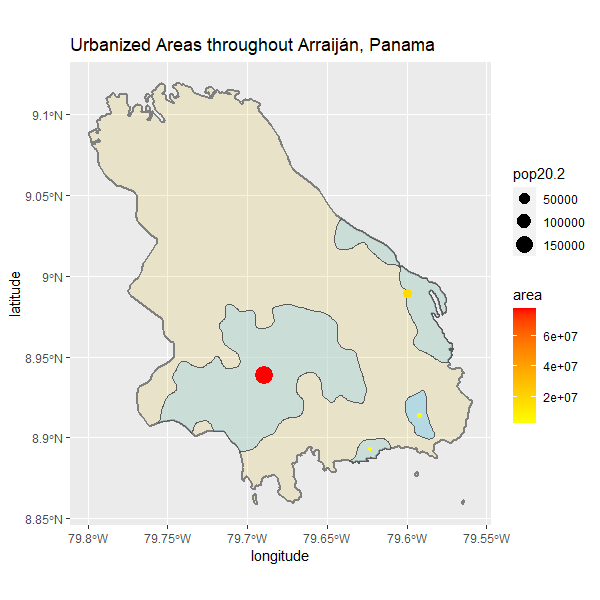
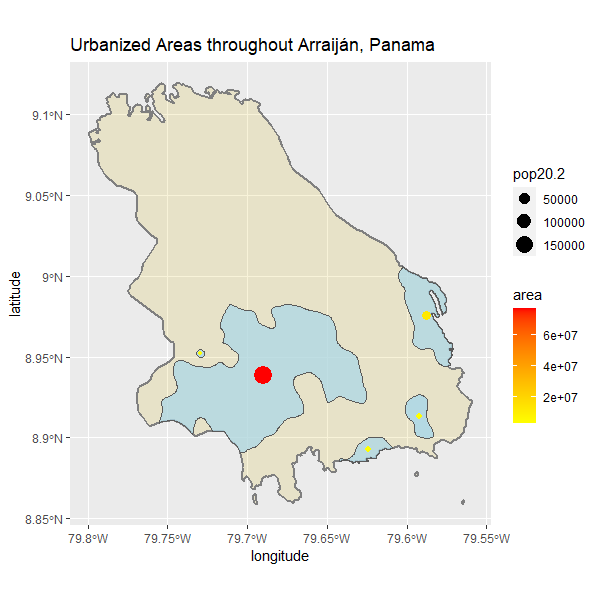
Final Project Submission

diff --git a/final_project.md b/final_project.md
@@ -1,5 +1,27 @@
+# Final Project: Panama's Population Distribution
+
+### Accessibility 1:  
+
 <img src = "pan_part1_deliv.png" />
+
+### Description: 
+
+The geospatial plot above describes the urban areas within Arraijan, Panama using the areas and population of these areas. Based on this plot, there are five major urban areas with the larger area being represented with the larger, red circle. It is also very interesting that these urban areas are in the south side of the providence. 
+
+
+
+### Accessibility 2: 
 
 <img src = "pan_part2_deliv.png" />
 
+### Description:
+
+The total number of people residing in these five urban areas is 214,654. The area and population between these 5 urban areas is very skewed; four out of the five urban areas are fairly small in area and population, relative to the red circle where most of the population and area is located. Although the roadways are a little scattered, The primary roadways run through the more populous urban areas, while the secondary and tertiary roadways connects these areas because of the mountainous terrain. The health care centers in Arraijan, Panama are mainly located within the urban areas and along the roadways. The majority of the health care centers is within the main urban area while two of the urban areas does not have a close health care center. This could prove to be a problem for the rural people looking for nearby health centers in critical situations. 
+
+### Accessibility 3: 
+
 <img src = "pan_part3_deliv.png" />
+
+### Description: 
+
+This topographic plot of Arraijan, Panama shows that the urban areas are separated by the mountainous terrains and established in flatter areas. Similar to the establishment of urban areas, most of the roadways are in the flatter areas, while the secondary and tertiary roadways are through the mountainous terrain to connect the urban areas. Furthermore, the health care centers are also only located in the urban areas, where it is flatter. My initial interpretation of these urban areas was that there were jungles that separated these urban areas. However, I was surprised to see that the mountainous terrains are what separates these urban areas. 
